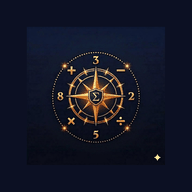
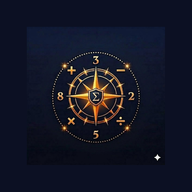
v8.5.3 fix CRITIQUE : icones PNG en mode RGB (les modes P etaient corrompus pour Chrome)

diff --git a/js/11-init.js b/js/11-init.js
@@ -12,19 +12,7 @@
 // ═══════════════════════════════════════════════════════
 (function handleSplash(){
  const splash = document.getElementById('splash-screen');
- if(!splash){ console.warn('[SPLASH v8.5.2] #splash-screen introuvable'); return; }
- console.log('[SPLASH v8.5.2] init OK, durée 10s');
- // Diagnostic : vérifier que les images chargent
- const compass = document.getElementById('splash-compass');
- const logo = document.getElementById('splash-logo');
- if(compass){
-  compass.addEventListener('load', ()=>console.log('[SPLASH] boussole chargée'));
-  compass.addEventListener('error', ()=>console.error('[SPLASH] ❌ boussole FAILED:', compass.src));
- }
- if(logo){
-  logo.addEventListener('load', ()=>console.log('[SPLASH] carte chargée'));
-  logo.addEventListener('error', ()=>console.error('[SPLASH] ❌ carte FAILED:', logo.src));
- }
+ if(!splash) return;
  // Si déjà vu cette session, on cache immédiatement
  let alreadySeen = false;
  try{ alreadySeen = sessionStorage.getItem('splashSeen') === '1'; }catch(e){}

diff --git a/index.html b/index.html
@@ -36,9 +36,9 @@
 <div id="splash-screen">
  <div id="splash-content">
   <!-- 1. La carte parchemin : démarre PETITE en haut, grossit et se centre -->
-  <img src="assets/logo-main.webp?v=851" alt="L'Odyssée des Chiffres" id="splash-logo">
+  <img src="assets/logo-main.webp?v=853" alt="L'Odyssée des Chiffres" id="splash-logo">
   <!-- 2. La boussole : grosse au centre puis rétrécit/se déplace -->
-  <img src="assets/icon-512.png?v=851" alt="" id="splash-compass" aria-hidden="true">
+  <img src="assets/icon-512.png?v=853" alt="" id="splash-compass" aria-hidden="true">
   <!-- 3. Chiffres et symboles math qui volent en chaotique autour -->
   <div id="splash-orbits" aria-hidden="true">
    <span class="splash-item splash-num" style="--i:0">3</span>
@@ -597,7 +597,7 @@
 <script src="js/09-parent.js"></script>
 <script src="js/10-figurines.js"></script>
 <script src="js/12-cloud.js"></script>
-<script src="js/11-init.js?v=852"></script>
+<script src="js/11-init.js?v=853"></script>
 
 <!-- Enregistrement du Service Worker (mode hors-ligne + installation PWA) -->
 <script>

diff --git a/sw.js b/sw.js
@@ -9,7 +9,7 @@
  */
 'use strict';
 
-const CACHE_VERSION = 'v8.5.2';
+const CACHE_VERSION = 'v8.5.3';
 const CACHE_NAME = `odyssee-${CACHE_VERSION}`;
 
 // Ressources critiques précachées au premier chargement.